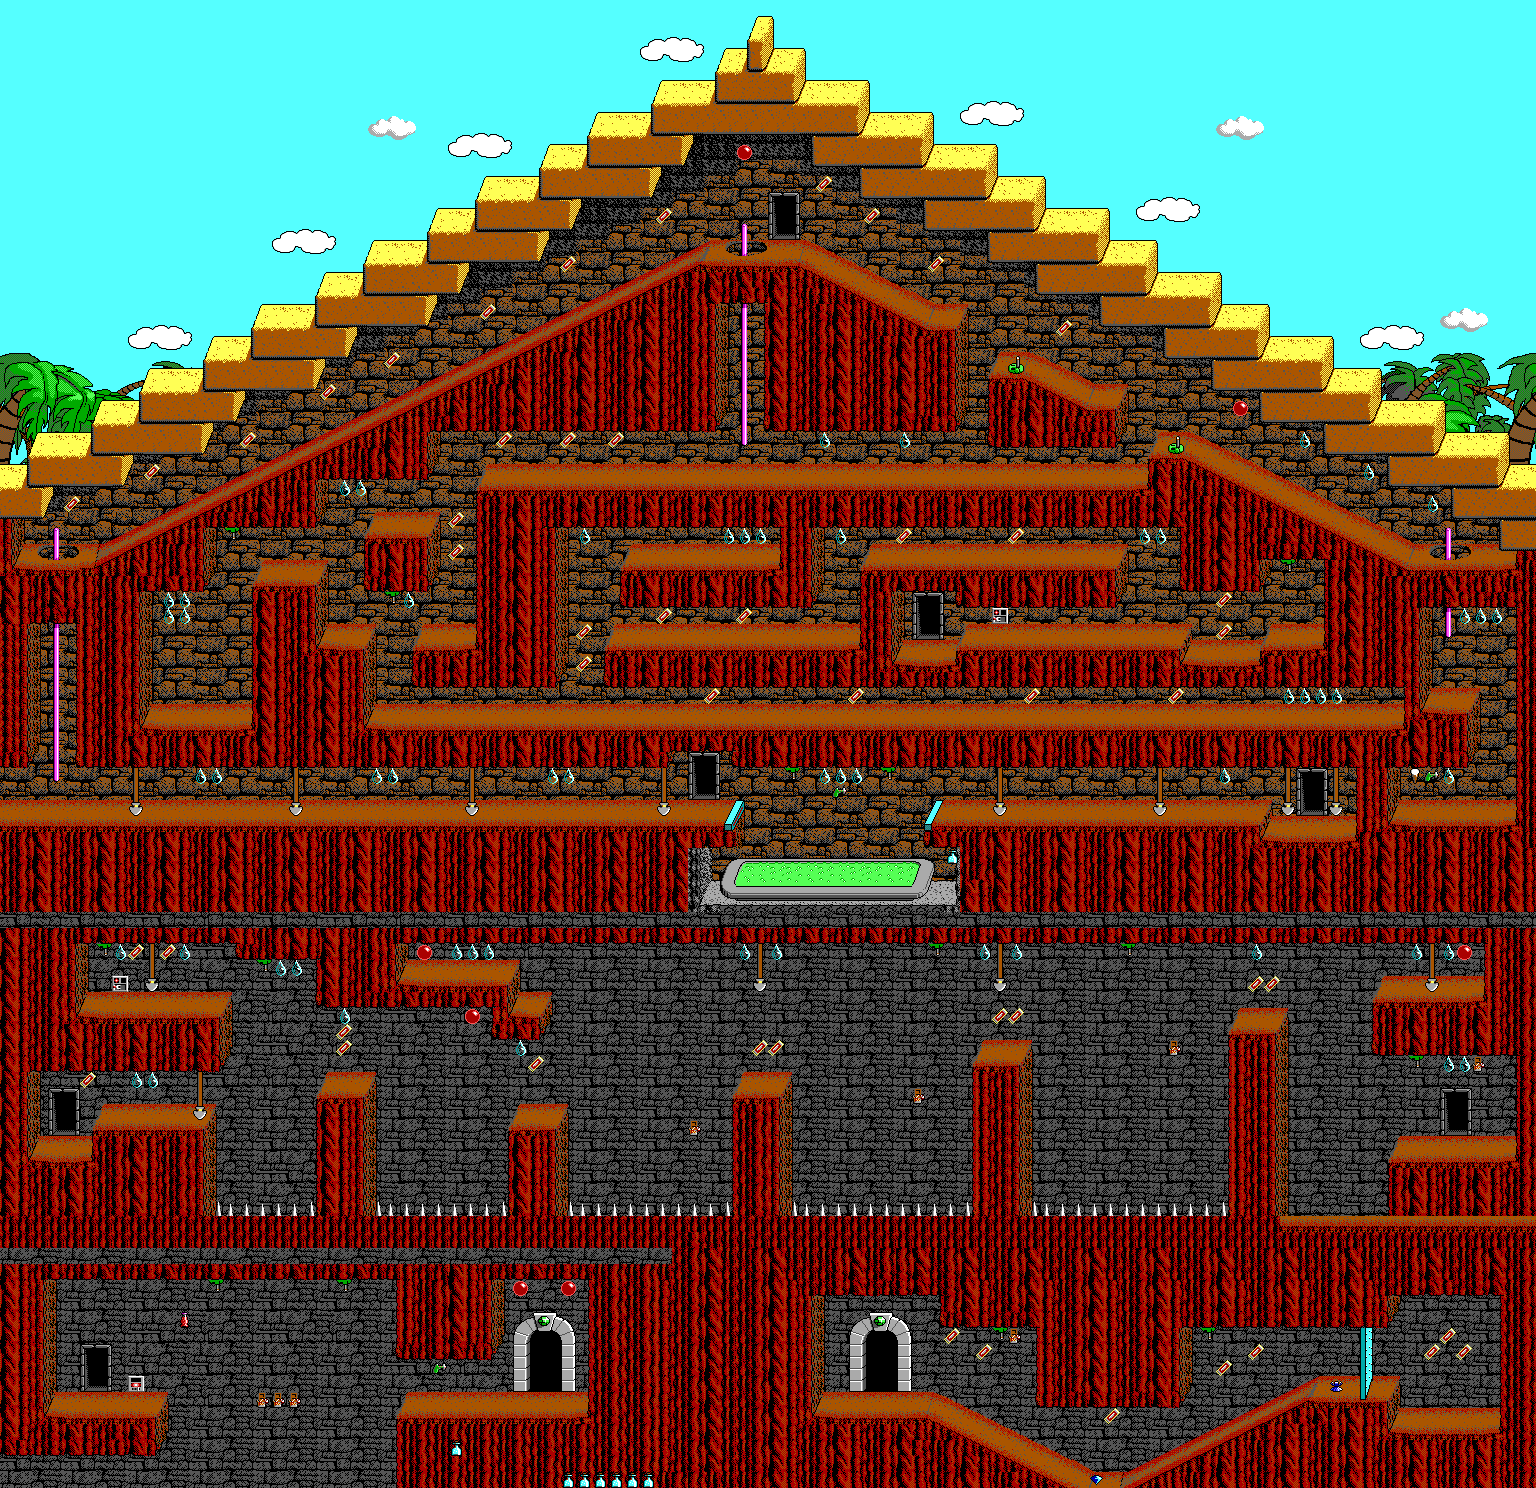
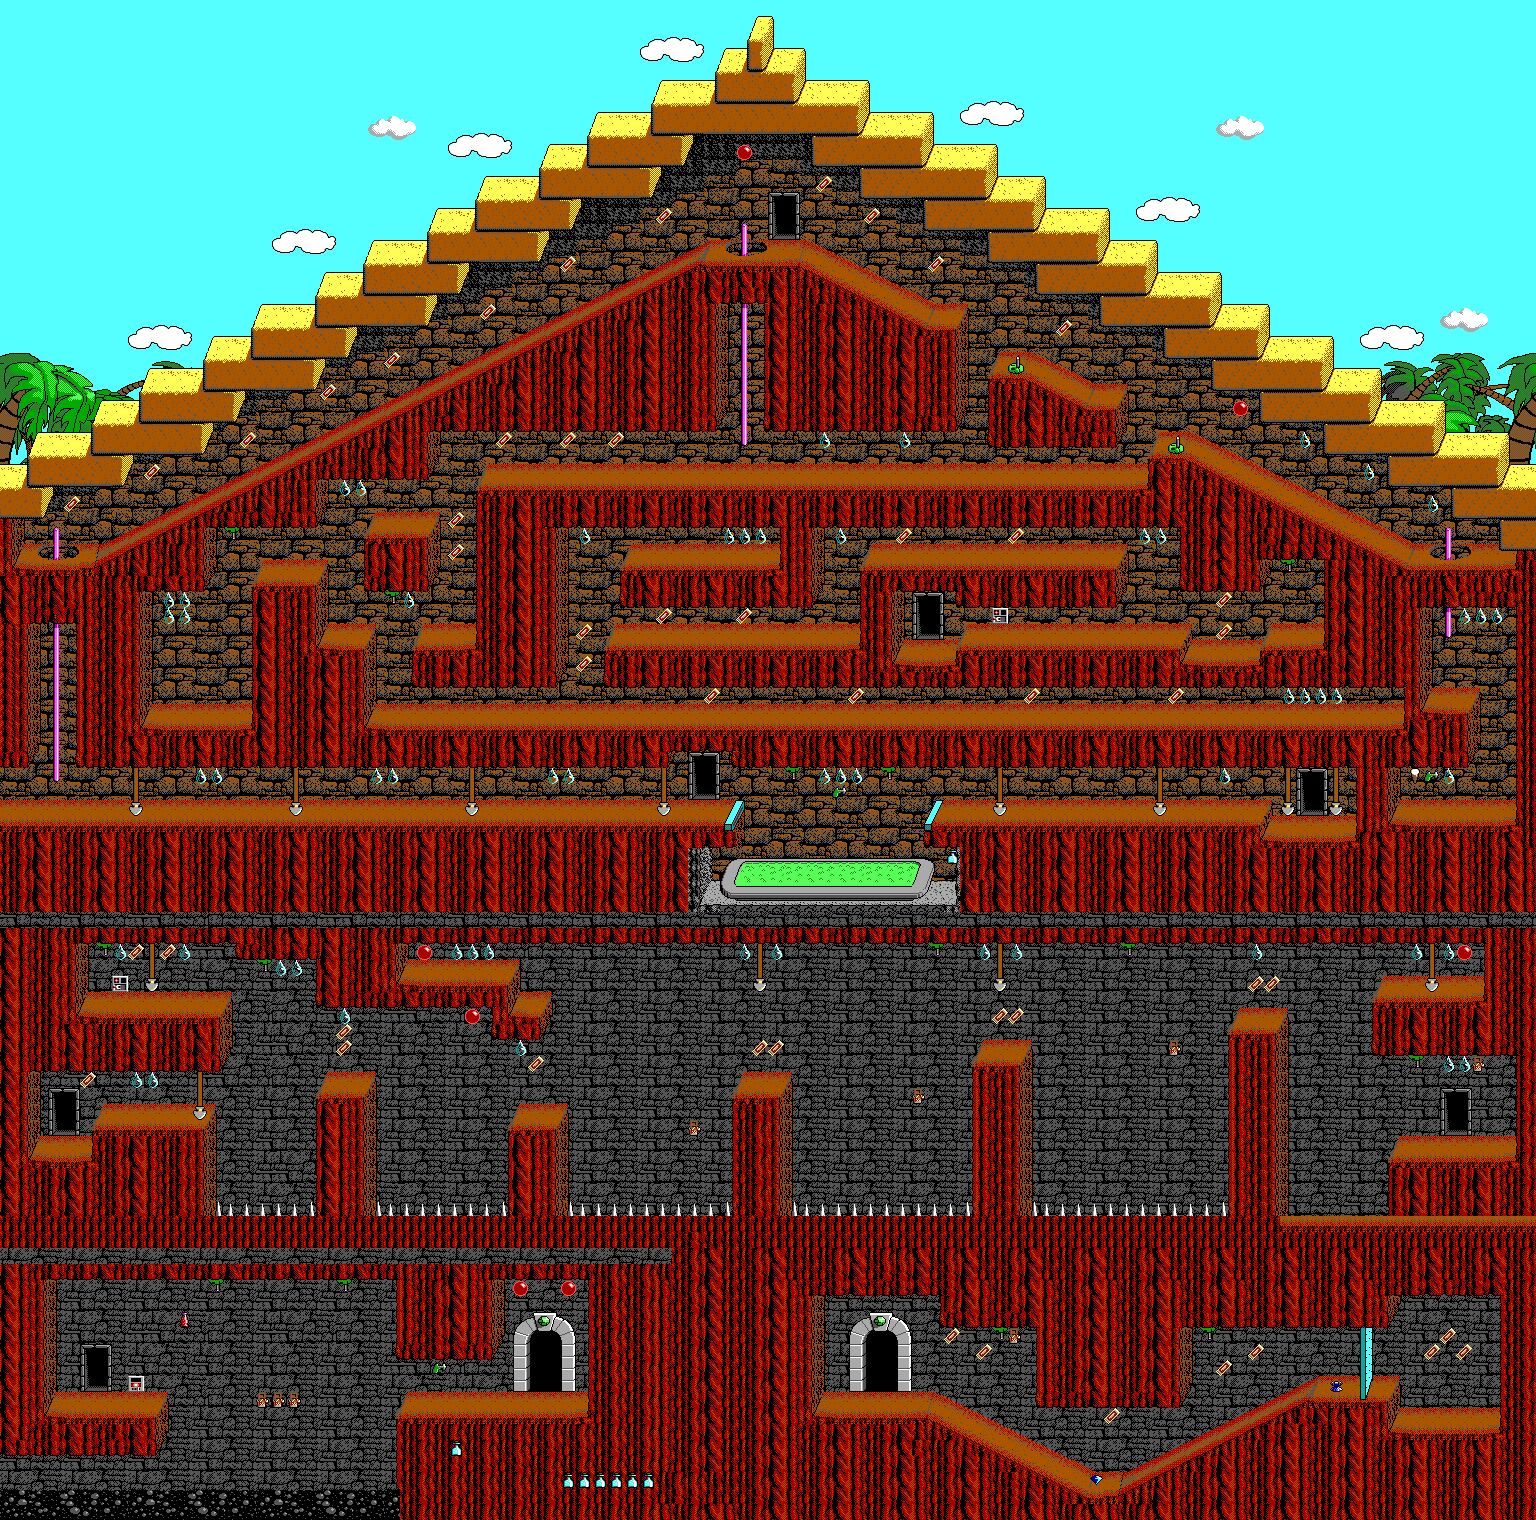
fix(maps): un-clip Pyramid of Shadows bottom crop
keen4_pos used bottom=4, which trimmed two rows of real cave geometry
that sit above the 'EDGE OF MAP' border (rows 97-98). Drop it to the
standard bottom=2 so the lowest floor renders; re-render Ck4lv12.png.
No pin impact (the pos cone is high up; top crop unchanged).

diff --git a/tools/render_level_maps.py b/tools/render_level_maps.py
@@ -71,7 +71,9 @@ CROP = {
     "keen4_bv": (3, 2, 1, 2), "keen4_sv": (3, 6, 1, 2), "keen4_pp": (3, 2, 1, 2),
     "keen4_cotd": (3, 2, 1, 2), "keen4_coc": (3, 2, 1, 2), "keen4_crys": (3, 2, 1, 2),
     "keen4_hil": (3, 2, 1, 2), "keen4_sy": (3, 2, 1, 2), "keen4_mir": (3, 2, 1, 2),
-    "keen4_lo": (3, 2, 1, 3), "keen4_potm": (3, 2, 1, 2), "keen4_pos": (3, 2, 1, 4),
+    "keen4_lo": (3, 2, 1, 3), "keen4_potm": (3, 2, 1, 2),
+    "keen4_pos": (3, 2, 1, 2),  # bottom was 4, but that clipped 2 rows of real
+    # cave geometry above the "EDGE OF MAP" border (rows 97-98); 2 matches the norm
     "keen4_potga": (3, 2, 1, 2), "keen4_iot": (3, 2, 1, 2), "keen4_iof": (3, 2, 1, 2),
     "keen4_wow": (3, 2, 1, 2), "keen4_bwbm": (3, 2, 1, 2),
     "keen5_ivs": (3, 4, 1, 2), "keen5_sc": (3, 2, 1, 2), "keen5_dtv": (3, 2, 1, 2),
